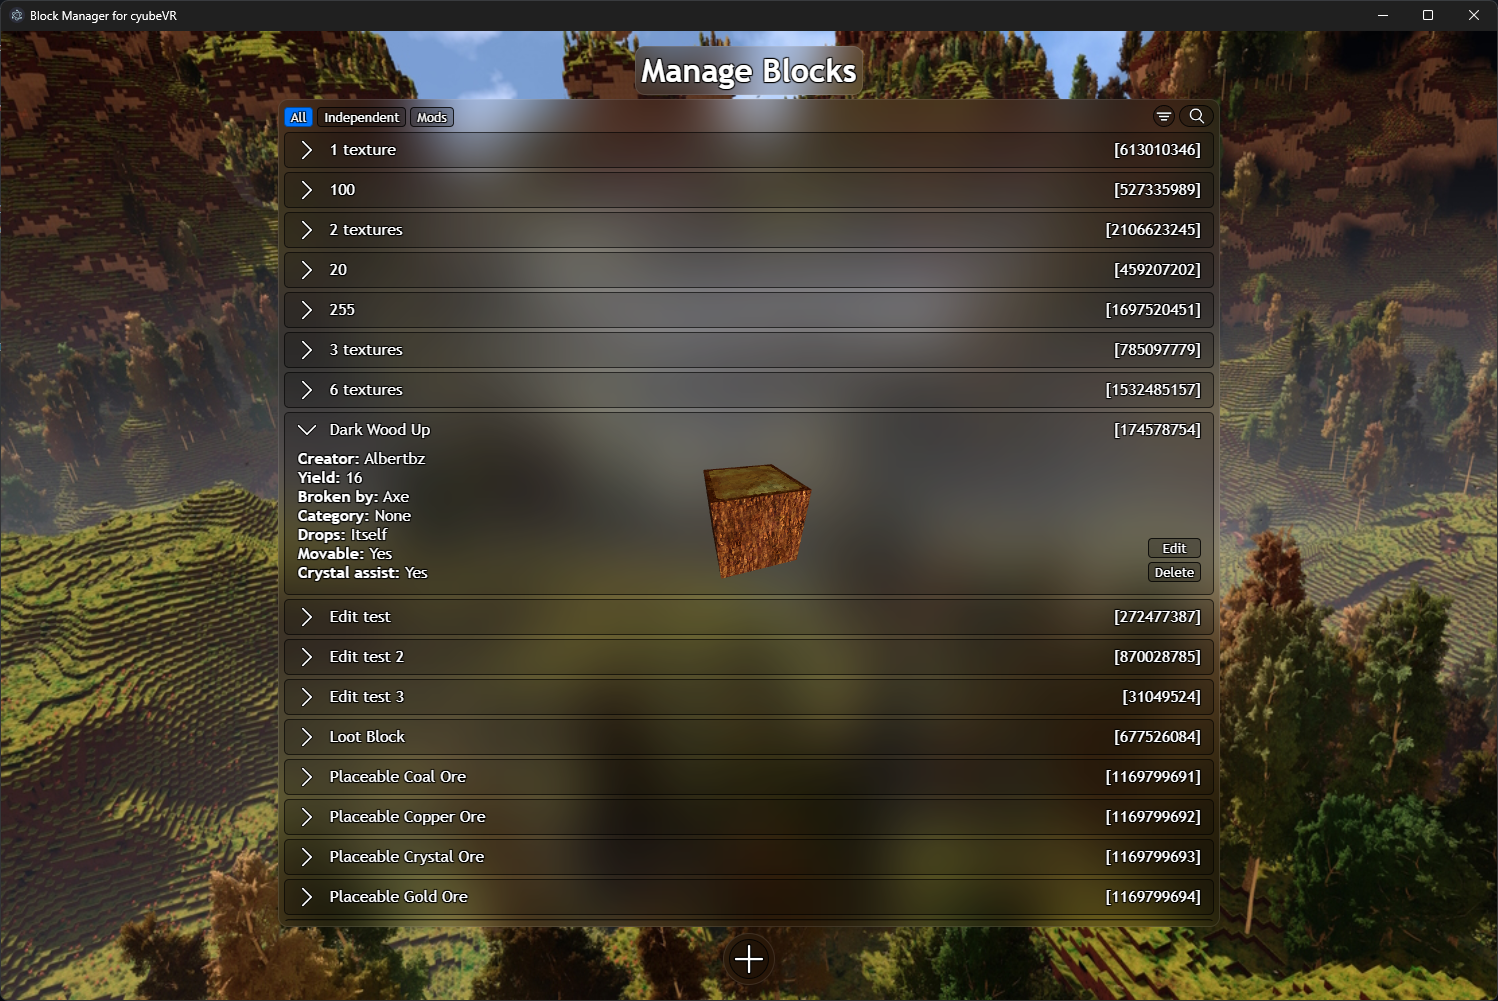
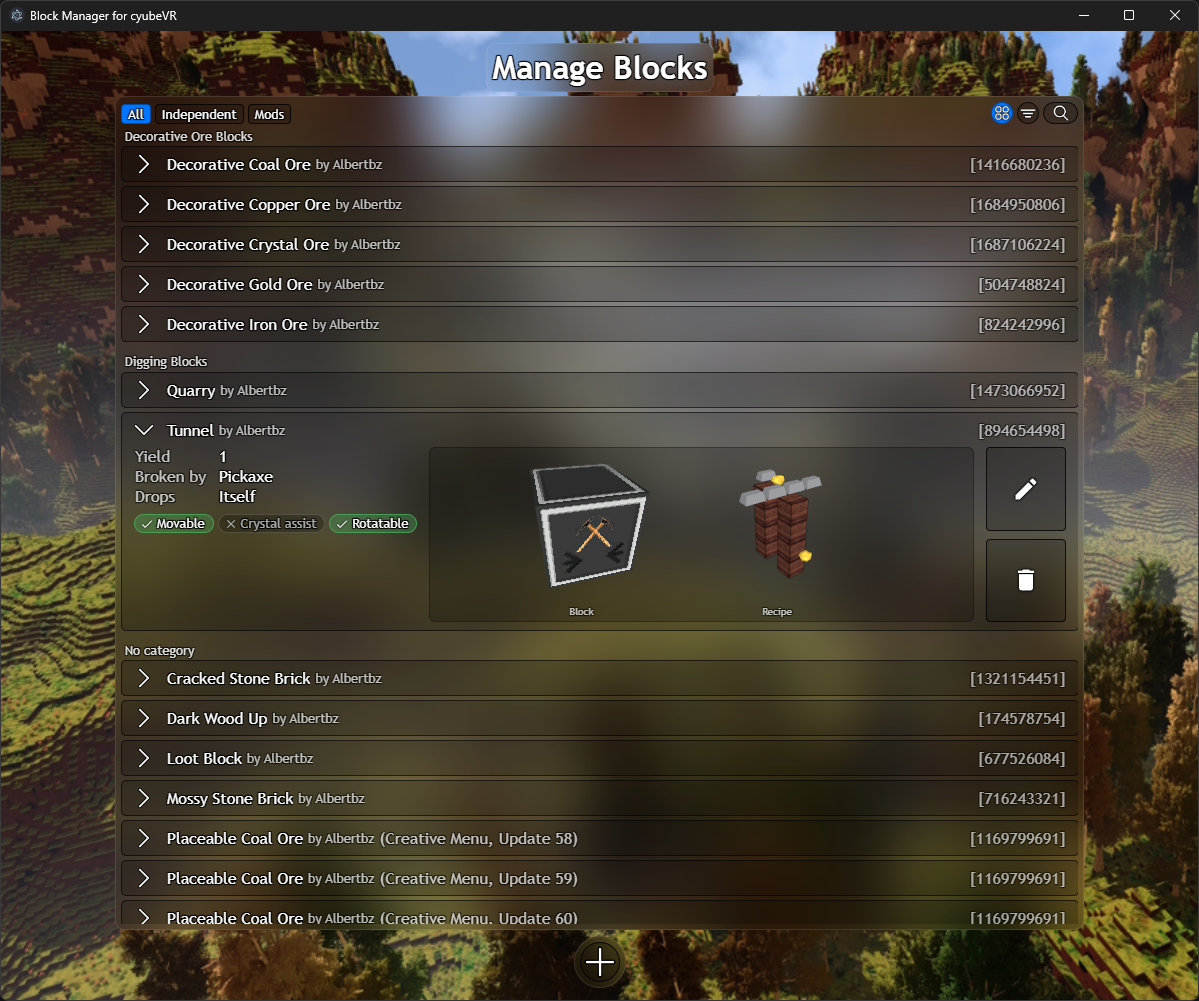
Update the readme and its screenshots, and remove the height map preview link

diff --git a/generator.html b/generator.html
@@ -444,8 +444,7 @@
                                             If you want the block to have tessellation (actual
                                             3D depth on its surface), then provide the height map
                                             files here. These should be greyscale images, where the
-                                            brighter the texture, the higher the surface. You can preview how a height map will look
-                                            in the game at: TODO_HEIGHTMAP_PREVIEW_URL
+                                            brighter the texture, the higher the surface.
                                             These must be 2048x2048 pixels, and you must provide either
                                             none or one for every face.
                                             A .dds file in BC4 (ATI1) format with mipmaps

diff --git a/README.md b/README.md
@@ -8,10 +8,14 @@ you will be greeted with the first of the two.
 If you have never made any custom blocks, then you will not see much here. In my case, because I have made quite a few custom blocks, it looks
 like this:
 ![Image of Manage Blocks window](readme_images/1.png)
-Here you can see an overview of the names and IDs of the blocks. If you click any of them you will be able to expand their view, where you
-can see more detailed information about the block as well as a preview. You can also choose to edit or delete the block:
+Here you can see an overview of the names, creators and IDs of the blocks, grouped by their category. Blocks that are part of a mod also
+show the name of the mod and the game version it is for. If you click any of them you will be able to expand their view, where you
+can see more detailed information about the block, as well as a preview of both the block and its recipe. Clicking a preview shows it larger.
+You can also choose to edit or delete the block with the buttons to the right:
 ![Image of expanded view of block](readme_images/2.png)
-You are also able to search for a block, sort by name or ID, and filter by independent blocks/blocks from mods.
+At the top you can filter by all blocks, independent blocks or blocks from mods (and then choose the game version), turn the grouping by
+category on or off, sort by name or ID, and search for a block by name. The application remembers which blocks you had open and which
+filter you chose.
 
 If you ever edit a block then it will just open the Block Generator window with all values already there, and then you can just save 
 the changes by going to the Finalization step.
@@ -22,7 +26,9 @@ Additionally, to open the Block Generator window to create a new custom block, c
 Next up we have the Block Generator window. This is where you will create new blocks from scratch using some textures that
 you have made, as well as specify the recipe and all other details.
 
-Block generation is split up into four parts: Properties, Textures, Recipe and Finalization. Let's go through each of them.
+Block generation is split up into four steps: Properties, Textures, Recipe and Finalization. Use the Previous and Next buttons to move
+between them, or click a step in the bar at the top to go straight to it. If you have changed anything, you will be asked before the block is
+discarded when pressing the X button at the bottom. Let's go through each of the steps.
 ### Properties
 Here you have to fill out the properties of the block that you want to make. This means the name of the block, your name, an ID,
 and much more. It looks like this:
@@ -34,10 +40,13 @@ Among the optional properties is "Allow rotation", which is enabled by default. 
 placed rotated, such as blocks with a fixed direction (like a compass) or blocks whose textures would tile incorrectly when rotated.
 
 ### Textures
-The textures part is pretty self-explanatory. Simply select the textures that you want your block to have. It looks like this
-when no textures have been selected:
+The textures part is pretty self-explanatory. First choose the texture type, which decides which faces of the block get their own texture:
+the same texture for all faces, one for the sides and one for both up and down, one for the sides, up and down each, or one for each of the
+six faces. Every kind of texture then has a slot for each of them. It looks like this when no textures have been selected:
 ![Image of empty textures part](readme_images/4.png)
-And like this when 3 textures have been given and after the "Generate preview of block" button has been pressed:
+Click a slot or drop files on it to add a texture, drag a texture to another slot to move it there, and click the cross in a texture's corner to
+remove it. A preview of the block is made automatically whenever the textures change, and you can click it to see it larger. It looks like
+this when textures have been given for the sides and for up/down:
 ![Image of non-empty textures part](readme_images/5.png)
 Here there are also both Required and Optional textures that you can provide. Hover over the question mark to read more about
 each type of texture.
@@ -55,18 +64,30 @@ type, it is used as it is, without being compressed again. This is useful if you
 | Height map | 2048x2048 | BC4 (ATI1) |
 
 One of the optional texture types is height maps. If you provide a height map for every texture, the block will have tessellation,
-giving its surface actual 3D depth in game. Height maps should be greyscale 2048x2048 images, where brighter means higher. To tune
-a height map without having to restart the game, you can preview how it will look in game at TODO_HEIGHTMAP_PREVIEW_URL.
+giving its surface actual 3D depth in game, which is also shown in the preview. Height maps should be greyscale 2048x2048 images, where
+brighter means higher.
+
+When the block has more than one texture, the "No hard edges" option is shown. Enable it if the textures are painted to continue into
+each other where they meet, like a top whose border runs on into the sides. The height maps then continue around the edges of the block.
+Otherwise, they flatten out toward the edges between different textures.
 
 ### Recipe
-For the recipe you have to provide a file specifying what blocks to use.
-If you use the in-game recipe generator button, then you can simply press the "Load most recently generated recipe" button and the recipe materials to the right should update accordingly.
+For the recipe there are three ways to choose what blocks to use:
+- If you use the in-game recipe generator button, then you can simply press the "Load" button under "Load most recently generated recipe".
+- You can select a recipe file generated by the game manually.
+- You can build the recipe yourself in the recipe builder, one layer at a time, seen from above. Click a square with a + to put a material
+there, or a filled square to change it, and right-click a filled square to remove it. Use the arrows or scroll to change layer. A recipe
+that has been loaded can also be changed here.
+
+To the right you can see the materials that the recipe needs, as well as a 3D preview of how they are put together. Drag to turn it around,
+scroll to zoom, and point at a block to see what it is. The "Layers shown" slider lets you look at the layers inside the recipe. If no recipe
+is chosen, the block will not be craftable, which is useful for blocks in a VoxelAPI mod that should only be placed by the mod.
 
 The recipe part looks like this:
 ![Image of recipe part](readme_images/6.png)
 
 ### Finalization
 Lastly we have the finalization. This is just where you specify where to save the block - you can either save it as an independent
-block or as part of a mod. It looks like this:
+block, as part of a mod, or somewhere you choose manually. When editing a block, it is saved in its existing location by default. It looks like this:
 ![Image of finalization part](readme_images/7.png)
 If you want the block to be part of a mod, then choose the mod and the version that the mod is made for.
